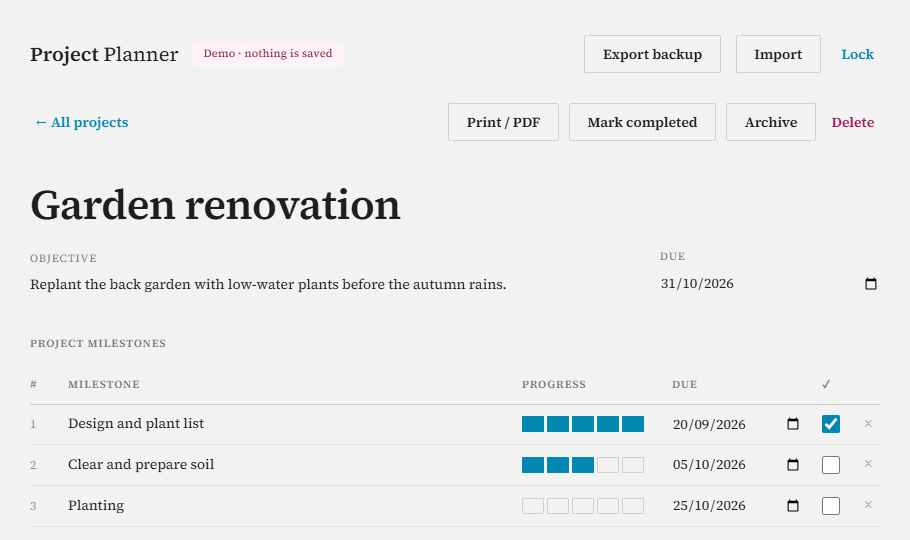
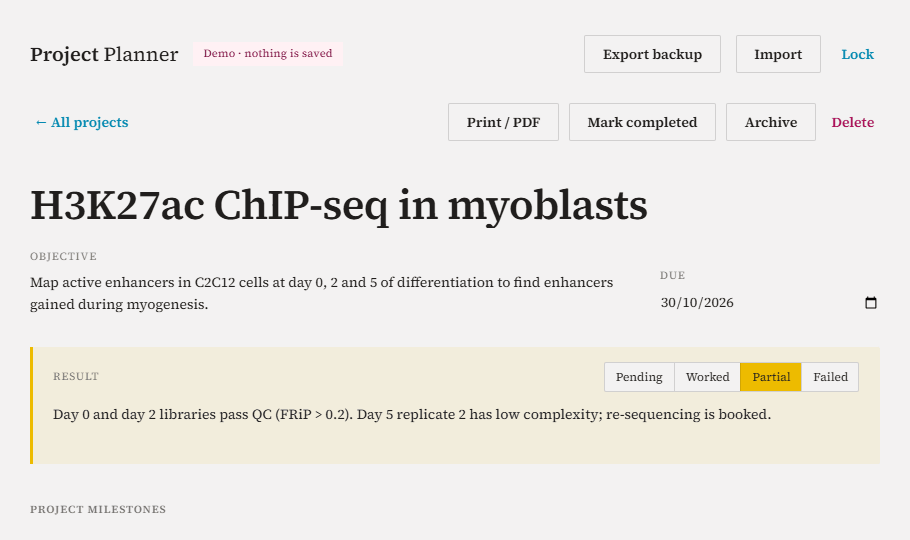
Add files via upload

diff --git a/index.html b/index.html
@@ -453,14 +453,16 @@ if (/[?&]demo\b/.test(location.search)) {
   const days = (a, b) => Array.from({ length: 30 }, (_, i) => i >= a && i <= b);
   const P = (o) => Object.assign(newProject(), o);
   S.data = { projects: [
-    P({ name: 'Garden renovation', objective: 'Replant the back garden with low-water plants before the autumn rains.', outcome: 'Soil prep running late: the rotavator was booked out. Planting may slip one week.', verdict: 'partial', due: '2026-10-31', created: 3,
-      milestones: [{ name: 'Design and plant list', progress: 5, due: '2026-09-20', done: true }, { name: 'Clear and prepare soil', progress: 3, due: '2026-10-05', done: false }, { name: 'Planting', progress: 0, due: '2026-10-25', done: false }],
-      timeline: [{ name: 'Design', days: days(0, 5) }, { name: 'Soil prep', days: days(6, 14) }, { name: 'Irrigation', days: days(12, 18) }, { name: 'Planting', days: days(19, 27) }],
-      tasks: [{ name: 'Measure beds and sketch layout', start: '2026-09-01', end: '2026-09-03', prio: 'H', done: true }, { name: 'Order plants from nursery', start: '2026-09-15', end: '2026-09-18', prio: 'M', done: true }, { name: 'Rent a rotavator', start: '2026-10-01', end: '2026-10-02', prio: 'M', done: false }, { name: 'Install drip irrigation lines', start: '2026-10-12', end: '2026-10-18', prio: 'H', done: false }],
-      notes: 'Nursery: ask for lavender, rosemary and salvia.\nKeep the old olive tree.' }),
-    P({ name: 'Half marathon training', objective: 'Finish the city half marathon under 2 hours.', due: '2026-11-15', created: 2,
-      milestones: [{ name: '10 km without stopping', progress: 4, due: '2026-10-01', done: false }, { name: '18 km long run', progress: 1, due: '2026-11-01', done: false }] }),
-    P({ name: 'Portfolio website', objective: 'Publish a simple site with my last five projects.', outcome: 'Live on GitHub Pages. Next: add a contact form.', verdict: 'worked', due: '2026-08-30', status: 'completed', created: 1 }),
+    P({ name: 'H3K27ac ChIP-seq in myoblasts', objective: 'Map active enhancers in C2C12 cells at day 0, 2 and 5 of differentiation to find enhancers gained during myogenesis.', due: '2026-10-30', created: 4,
+      outcome: 'Day 0 and day 2 libraries pass QC (FRiP > 0.2). Day 5 replicate 2 has low complexity; re-sequencing is booked.', verdict: 'partial',
+      milestones: [{ name: 'Chromatin collection and sonication check', progress: 5, due: '2026-09-12', done: true }, { name: 'IP, library prep and sequencing', progress: 4, due: '2026-09-26', done: false }, { name: 'Peak calling and differential analysis', progress: 1, due: '2026-10-16', done: false }, { name: 'Motif enrichment and figures', progress: 0, due: '2026-10-30', done: false }],
+      timeline: [{ name: 'Cell culture and crosslinking', days: days(0, 6) }, { name: 'ChIP and libraries', days: days(7, 12) }, { name: 'Sequencing', days: days(13, 17) }, { name: 'nf-core/chipseq', days: days(18, 21) }, { name: 'DiffBind and HOMER', days: days(22, 29) }],
+      tasks: [{ name: 'Check sonication fragment size on Bioanalyzer (200-500 bp)', start: '2026-09-08', end: '2026-09-09', prio: 'H', done: true }, { name: 'Titrate H3K27ac antibody (ab4729) on day 0 chromatin', start: '2026-09-10', end: '2026-09-12', prio: 'H', done: true }, { name: 'Submit libraries to the genomics core', start: '2026-09-22', end: '2026-09-22', prio: 'M', done: true }, { name: 'Run nf-core/chipseq with input controls', start: '2026-10-01', end: '2026-10-03', prio: 'H', done: false }, { name: 'Differential peaks day 5 vs day 0 with DiffBind', start: '2026-10-06', end: '2026-10-10', prio: 'M', done: false }],
+      notes: 'Data location:\n/lab/seq/2026-09_chip_c2c12/\n\nSamples:\nD0, D2, D5 x 2 biological replicates + input per time point\n\nPipeline and versions:\nnf-core/chipseq 2.1.0, MACS3 3.0.2, DiffBind 3.14\n\nGenome and annotation:\nmm39, GENCODE vM35\n\nParameters:\n--narrow_peak false --macs_gsize 2.7e9\n' }),
+    P({ name: 'CRISPR knockout of Pax7 in satellite cells', objective: 'Generate a clonal Pax7 knockout line and confirm loss of protein by western blot.', due: '2026-11-20', created: 3,
+      milestones: [{ name: 'Design and clone two sgRNAs', progress: 5, due: '2026-09-15', done: true }, { name: 'Transfection and single-cell sorting', progress: 2, due: '2026-10-10', done: false }, { name: 'Genotyping and western blot', progress: 0, due: '2026-11-20', done: false }] }),
+    P({ name: 'Single-cell RNA-seq of regenerating muscle', objective: 'Compare fibro-adipogenic progenitor subpopulations at day 3 and day 7 after injury.', due: '2026-12-15', created: 2 }),
+    P({ name: 'qPCR validation of myogenic markers', objective: 'Confirm Myod1, Myog and Myh3 induction during differentiation.', outcome: 'All three markers induced as expected. Gapdh and Rplp0 stable as reference genes.', verdict: 'worked', due: '2026-08-29', status: 'completed', created: 1 }),
   ] };
   S.view = 'list'; S.demo = true;
 }

diff --git a/README.md b/README.md
@@ -1,17 +1,23 @@
 # Project Planner
 
-A private, password-protected project planner that runs entirely in your browser. Create as many projects as you want, each with an objective, milestones, a 30-day timeline, tasks and notes. Print any project or save it as a PDF.
+A private, password-protected planner for lab and analysis projects that runs entirely in your browser. Each project is one sheet: objective, result, milestones, a 30-day timeline, tasks and structured notes for data, samples, pipelines and parameters. Print any project or save it as a PDF.
 
-**[Try the demo](https://cristinarisu.github.io/ProjectPlanner/?demo)** (sample data, nothing is saved)
+**[Try the demo](https://cristinarisu.github.io/ProjectPlanner/?demo)** (sample projects, nothing is saved)
 
 ![Project list](docs/list.png)
 
 ## Features
 
-- **One sheet per project**: objective and due date, milestones with a 5-step progress bar, a 30-day timeline you fill by clicking days, tasks with start/end dates and priority, free notes.
+- **One sheet per project**
+  - Objective and due date. Due dates turn amber when a week or less is left and red when overdue.
+  - **Result**: mark the project as *Pending*, *Worked*, *Partial* or *Failed* and write what you found and the next step. The verdict is also shown in the project list.
+  - **Milestones** with a 5-step progress bar and due date.
+  - **30-day timeline** you fill by clicking days.
+  - **Tasks** with start/end dates, priority (L/M/H) and a done checkbox.
+  - **Notes** pre-filled with prompts: *Data location*, *Samples*, *Pipeline and versions*, *Genome and annotation*, *Parameters*.
 - **Encrypted with your password**: data is encrypted (AES-256-GCM, key derived with PBKDF2) before it is stored. Without the password nobody can read it, even with access to the code or the files.
-- **Search and filter** by active, completed or archived.
-- **Print / PDF** a clean version of any project.
+- **Search** across names, objectives, results and notes, and **filter** by active, completed or archived.
+- **Print / PDF** a clean version of any project. Empty rows are left out and all text is printed in full.
 - **Backups**: export an encrypted `.json` file and import it on any computer.
 - **No server, no account, no tracking.** Two files: `index.html` and `styles.css`.
 
